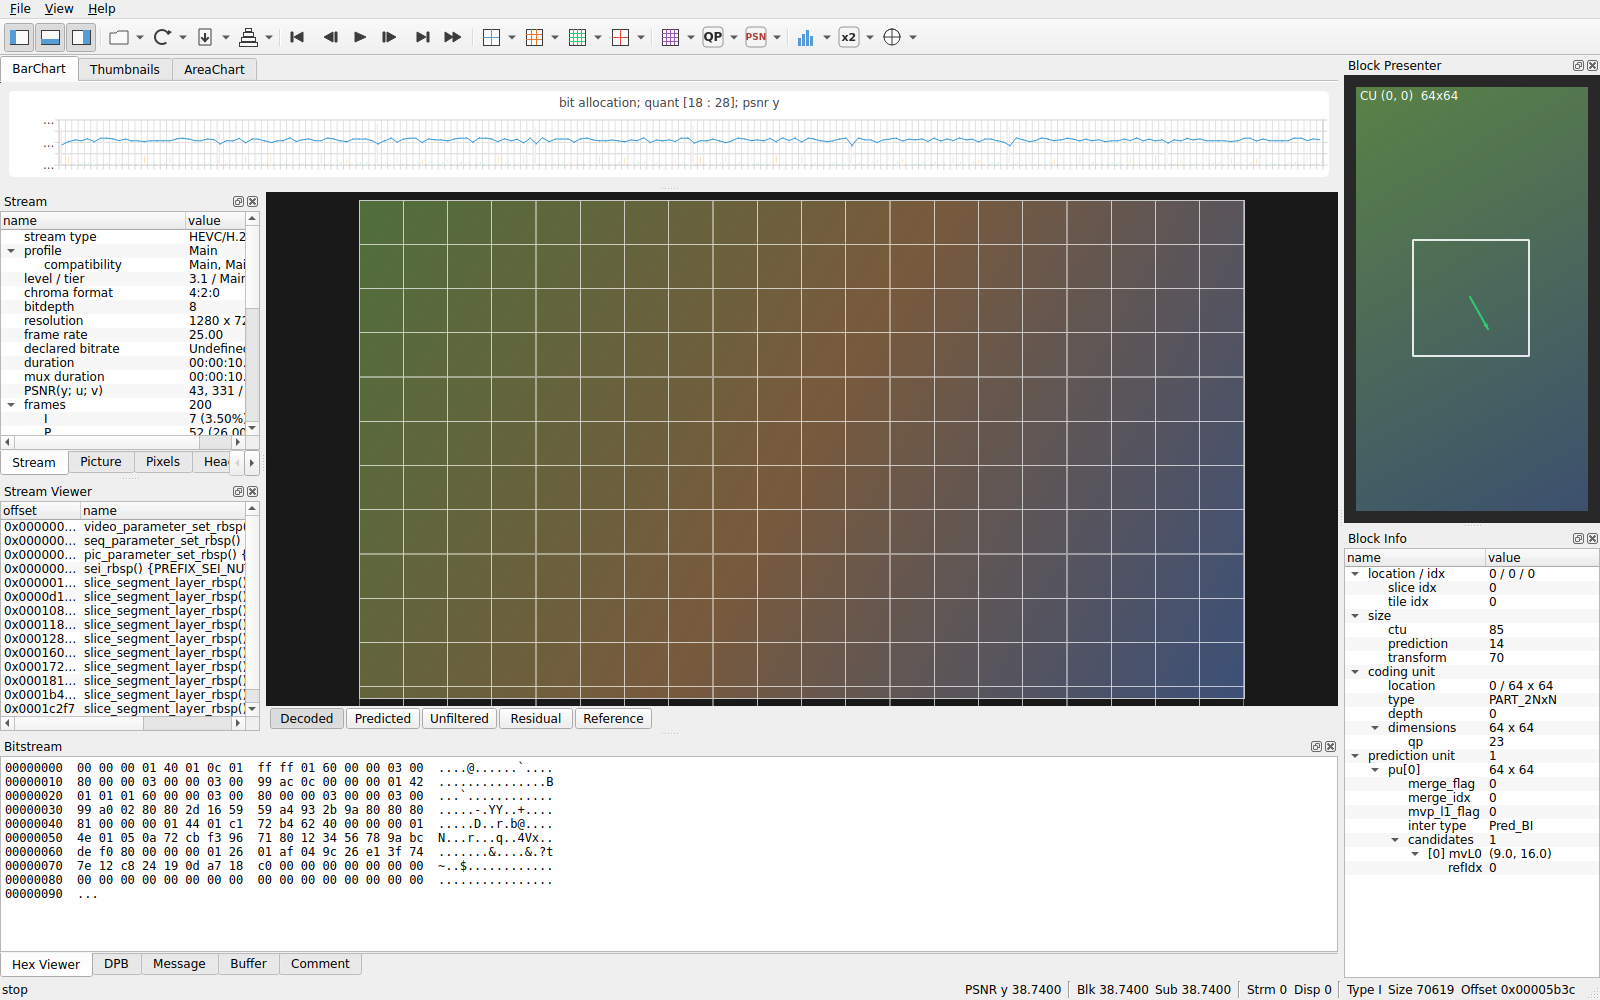
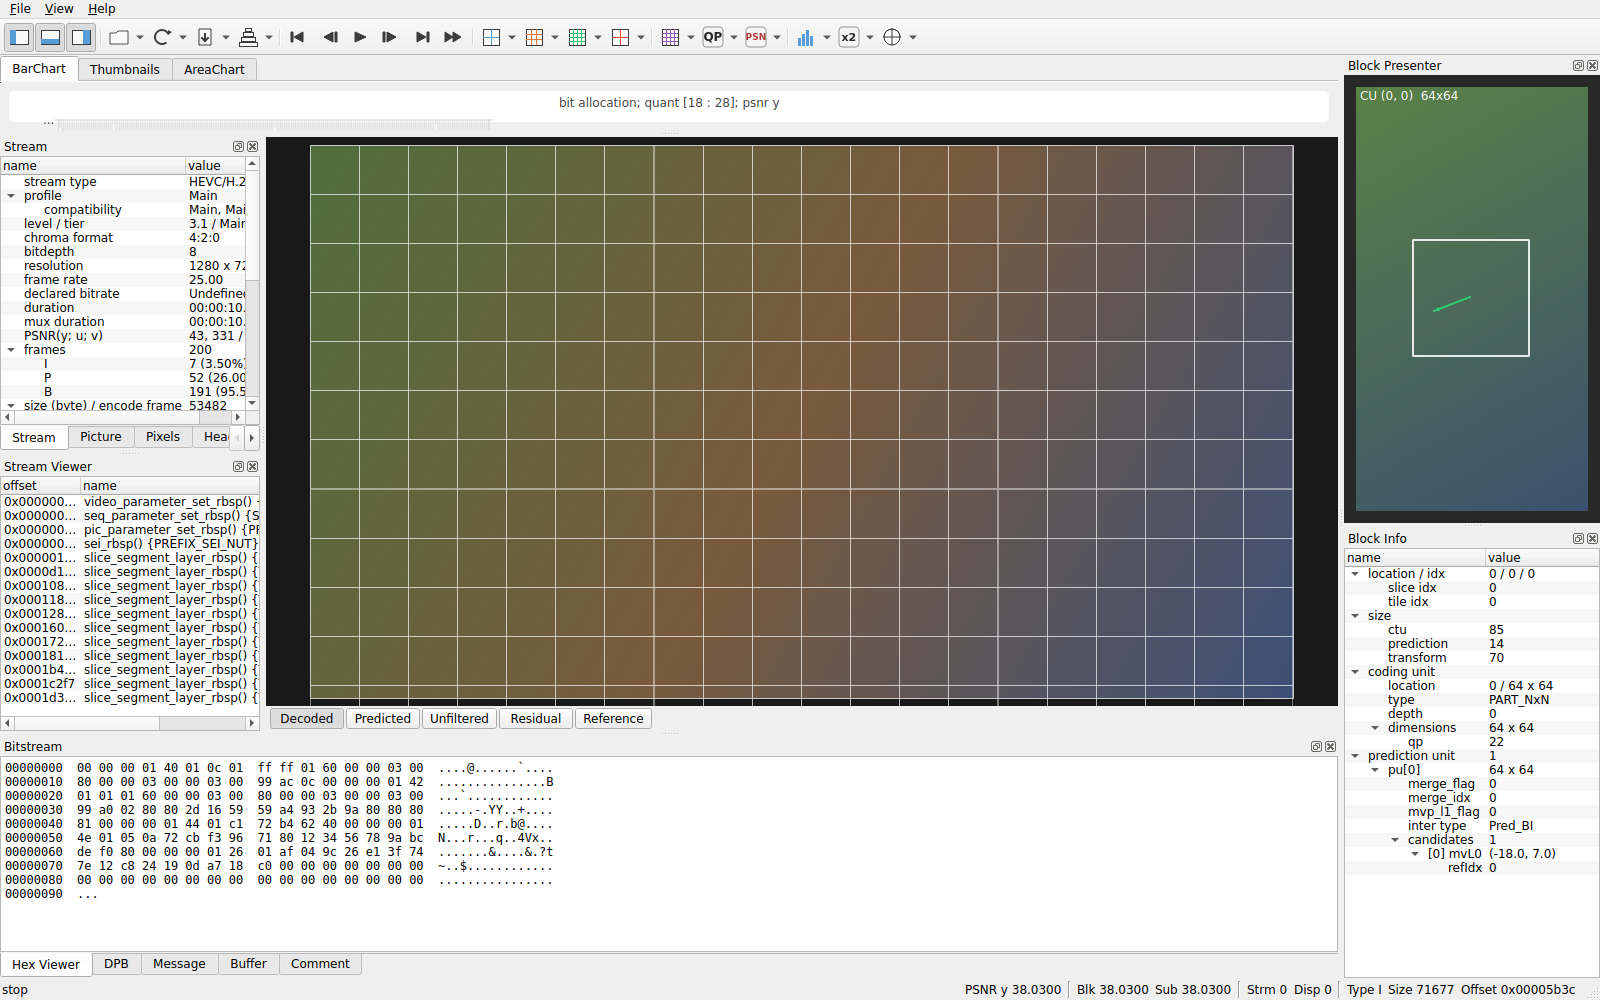
Shrink chart dock further (min 60 / initial 75 / max 85)
Tighten the BarChart / Thumbnails / AreaChart tab widget height
constraints to min 60 / max 85 pixels, opening at 75 px. The top
chart strip now hugs the toolbar instead of swallowing a big chunk
of the central canvas.

https://claude.ai/code/session_01Fk599Kxe4RL25fwFBHgwYp

diff --git a/src/MainWindow.cpp b/src/MainWindow.cpp
@@ -96,14 +96,14 @@ void MainWindow::setupDocks() {
     chartDock->setFeatures(QDockWidget::NoDockWidgetFeatures);
     chartDock->setTitleBarWidget(new QWidget(chartDock));   // hide title bar
     m_chartTabs = new ChartTabWidget(&m_data, chartDock);
-    m_chartTabs->setMinimumHeight(90);
-    m_chartTabs->setMaximumHeight(140);
+    m_chartTabs->setMinimumHeight(60);
+    m_chartTabs->setMaximumHeight(85);
     chartDock->setWidget(m_chartTabs);
     chartDock->setAllowedAreas(Qt::TopDockWidgetArea);
     addDockWidget(Qt::TopDockWidgetArea, chartDock);
-    // Ask Qt to give the chart dock a slim 130-px initial height instead of
+    // Ask Qt to give the chart dock a slim initial height instead of
     // growing to fill ~⅓ of the window.
-    resizeDocks({chartDock}, {130}, Qt::Vertical);
+    resizeDocks({chartDock}, {75}, Qt::Vertical);
 
     // --- Left dock (top): Stream panel with 6 tabs -------------------------
     // The "Stream" tab hosts the existing StreamInfoTree. The other five
